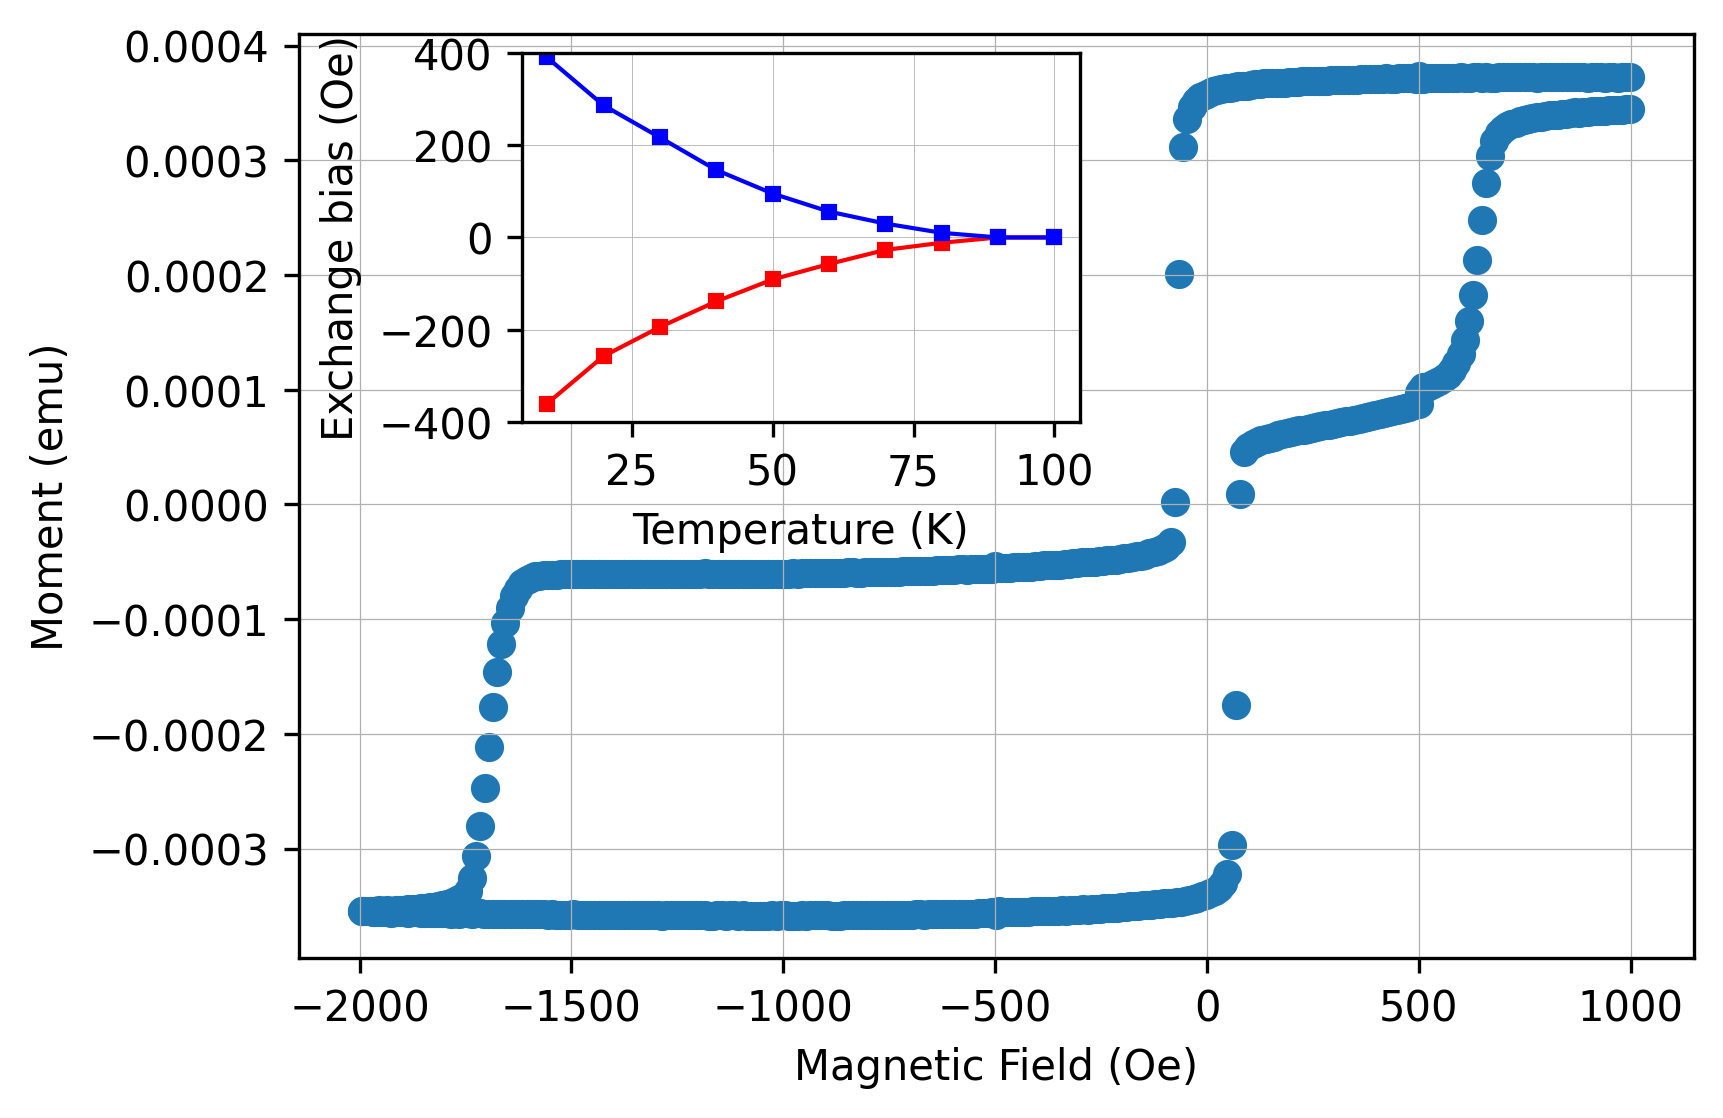
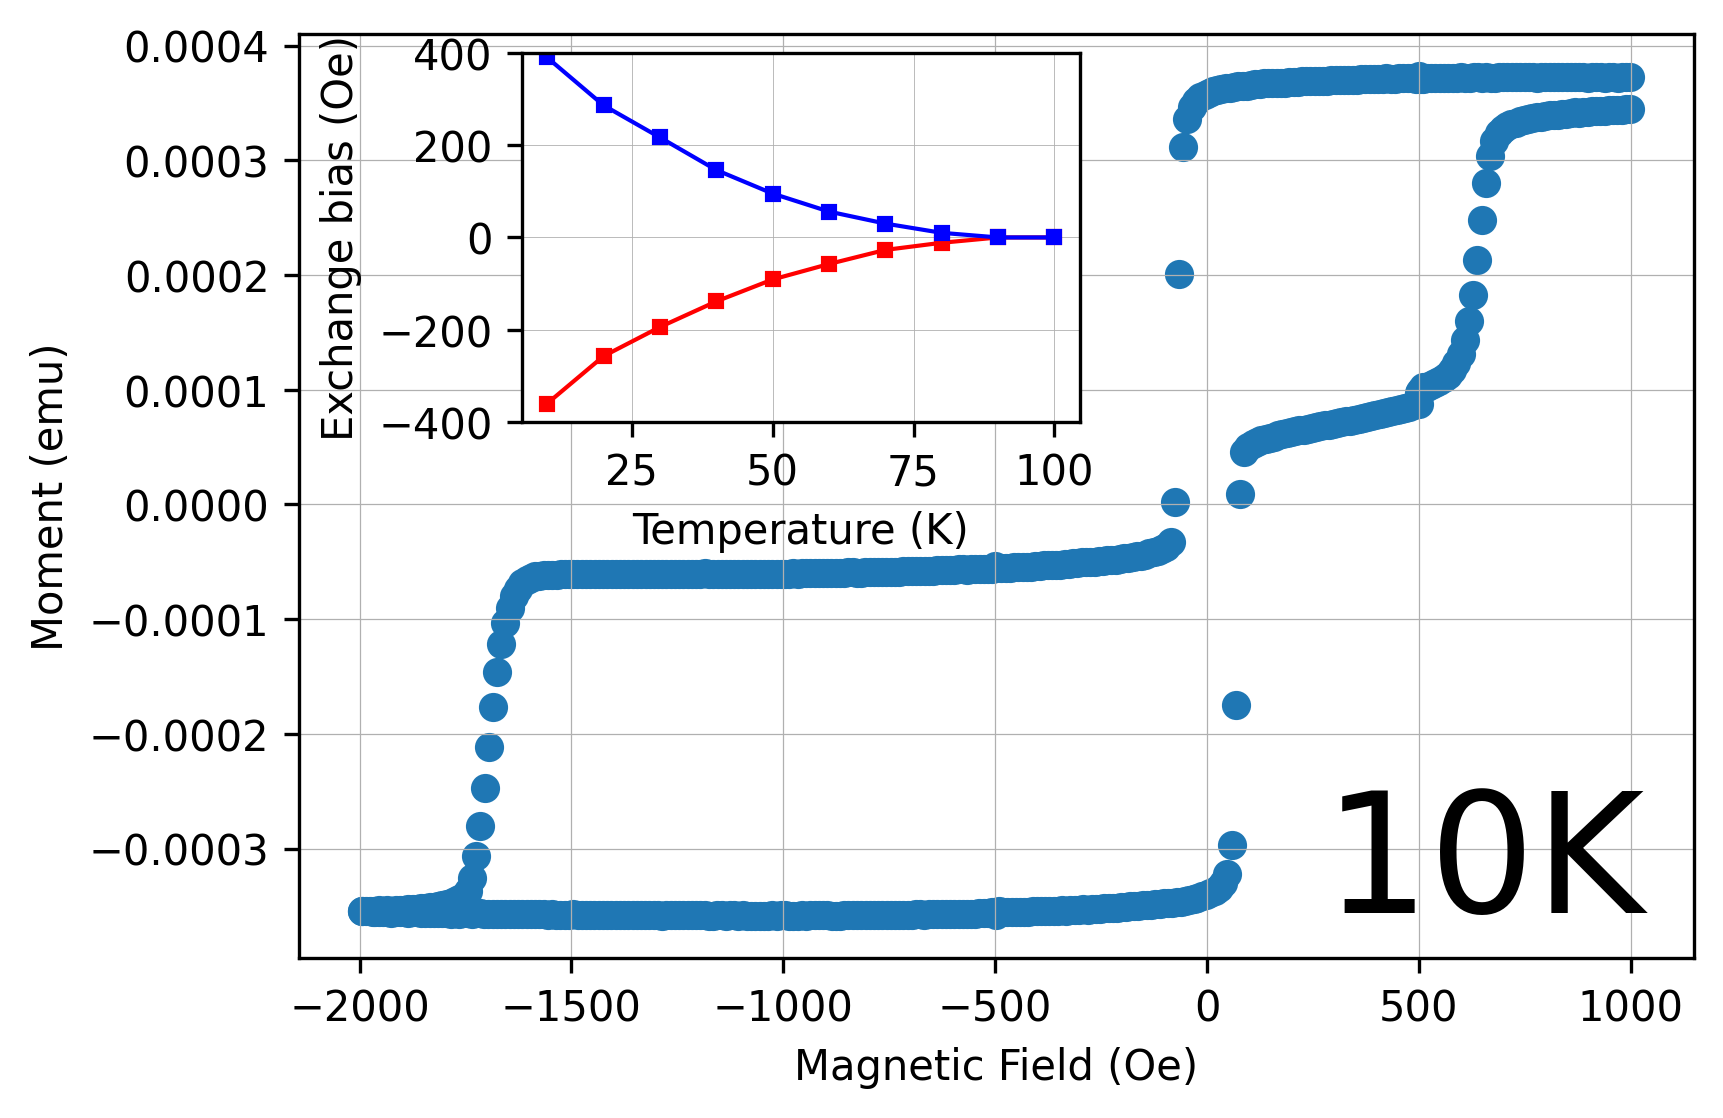
Add '10K' label

Changed region(s): [[0.769, 0.6995, 0.9536, 0.8211]]

diff --git a/10K_hysteresis_with_inset.py b/10K_hysteresis_with_inset.py
@@ -44,6 +44,7 @@ if __name__ == "__main__":
     ax.set_xlabel('Magnetic Field (Oe)')
     ax.set_ylabel('Moment (emu)')
     ax.grid(linewidth = 0.3)
+    ax.text(0.85, 0.1, "10K", transform=ax.transAxes, fontsize=40, ha='center', va='center')
 
     """ Inset """
     ax_inset = ax.inset_axes([0.16, 0.58, 0.4, 0.4])
@@ -58,4 +59,4 @@ if __name__ == "__main__":
     ax_inset.set_ylim(-400, 400)
     ax_inset.grid(linewidth = 0.2)
     plt.savefig(save_graph_file_path, dpi=300, transparent=False, bbox_inches='tight')
-    # plt.show()
+    plt.show()